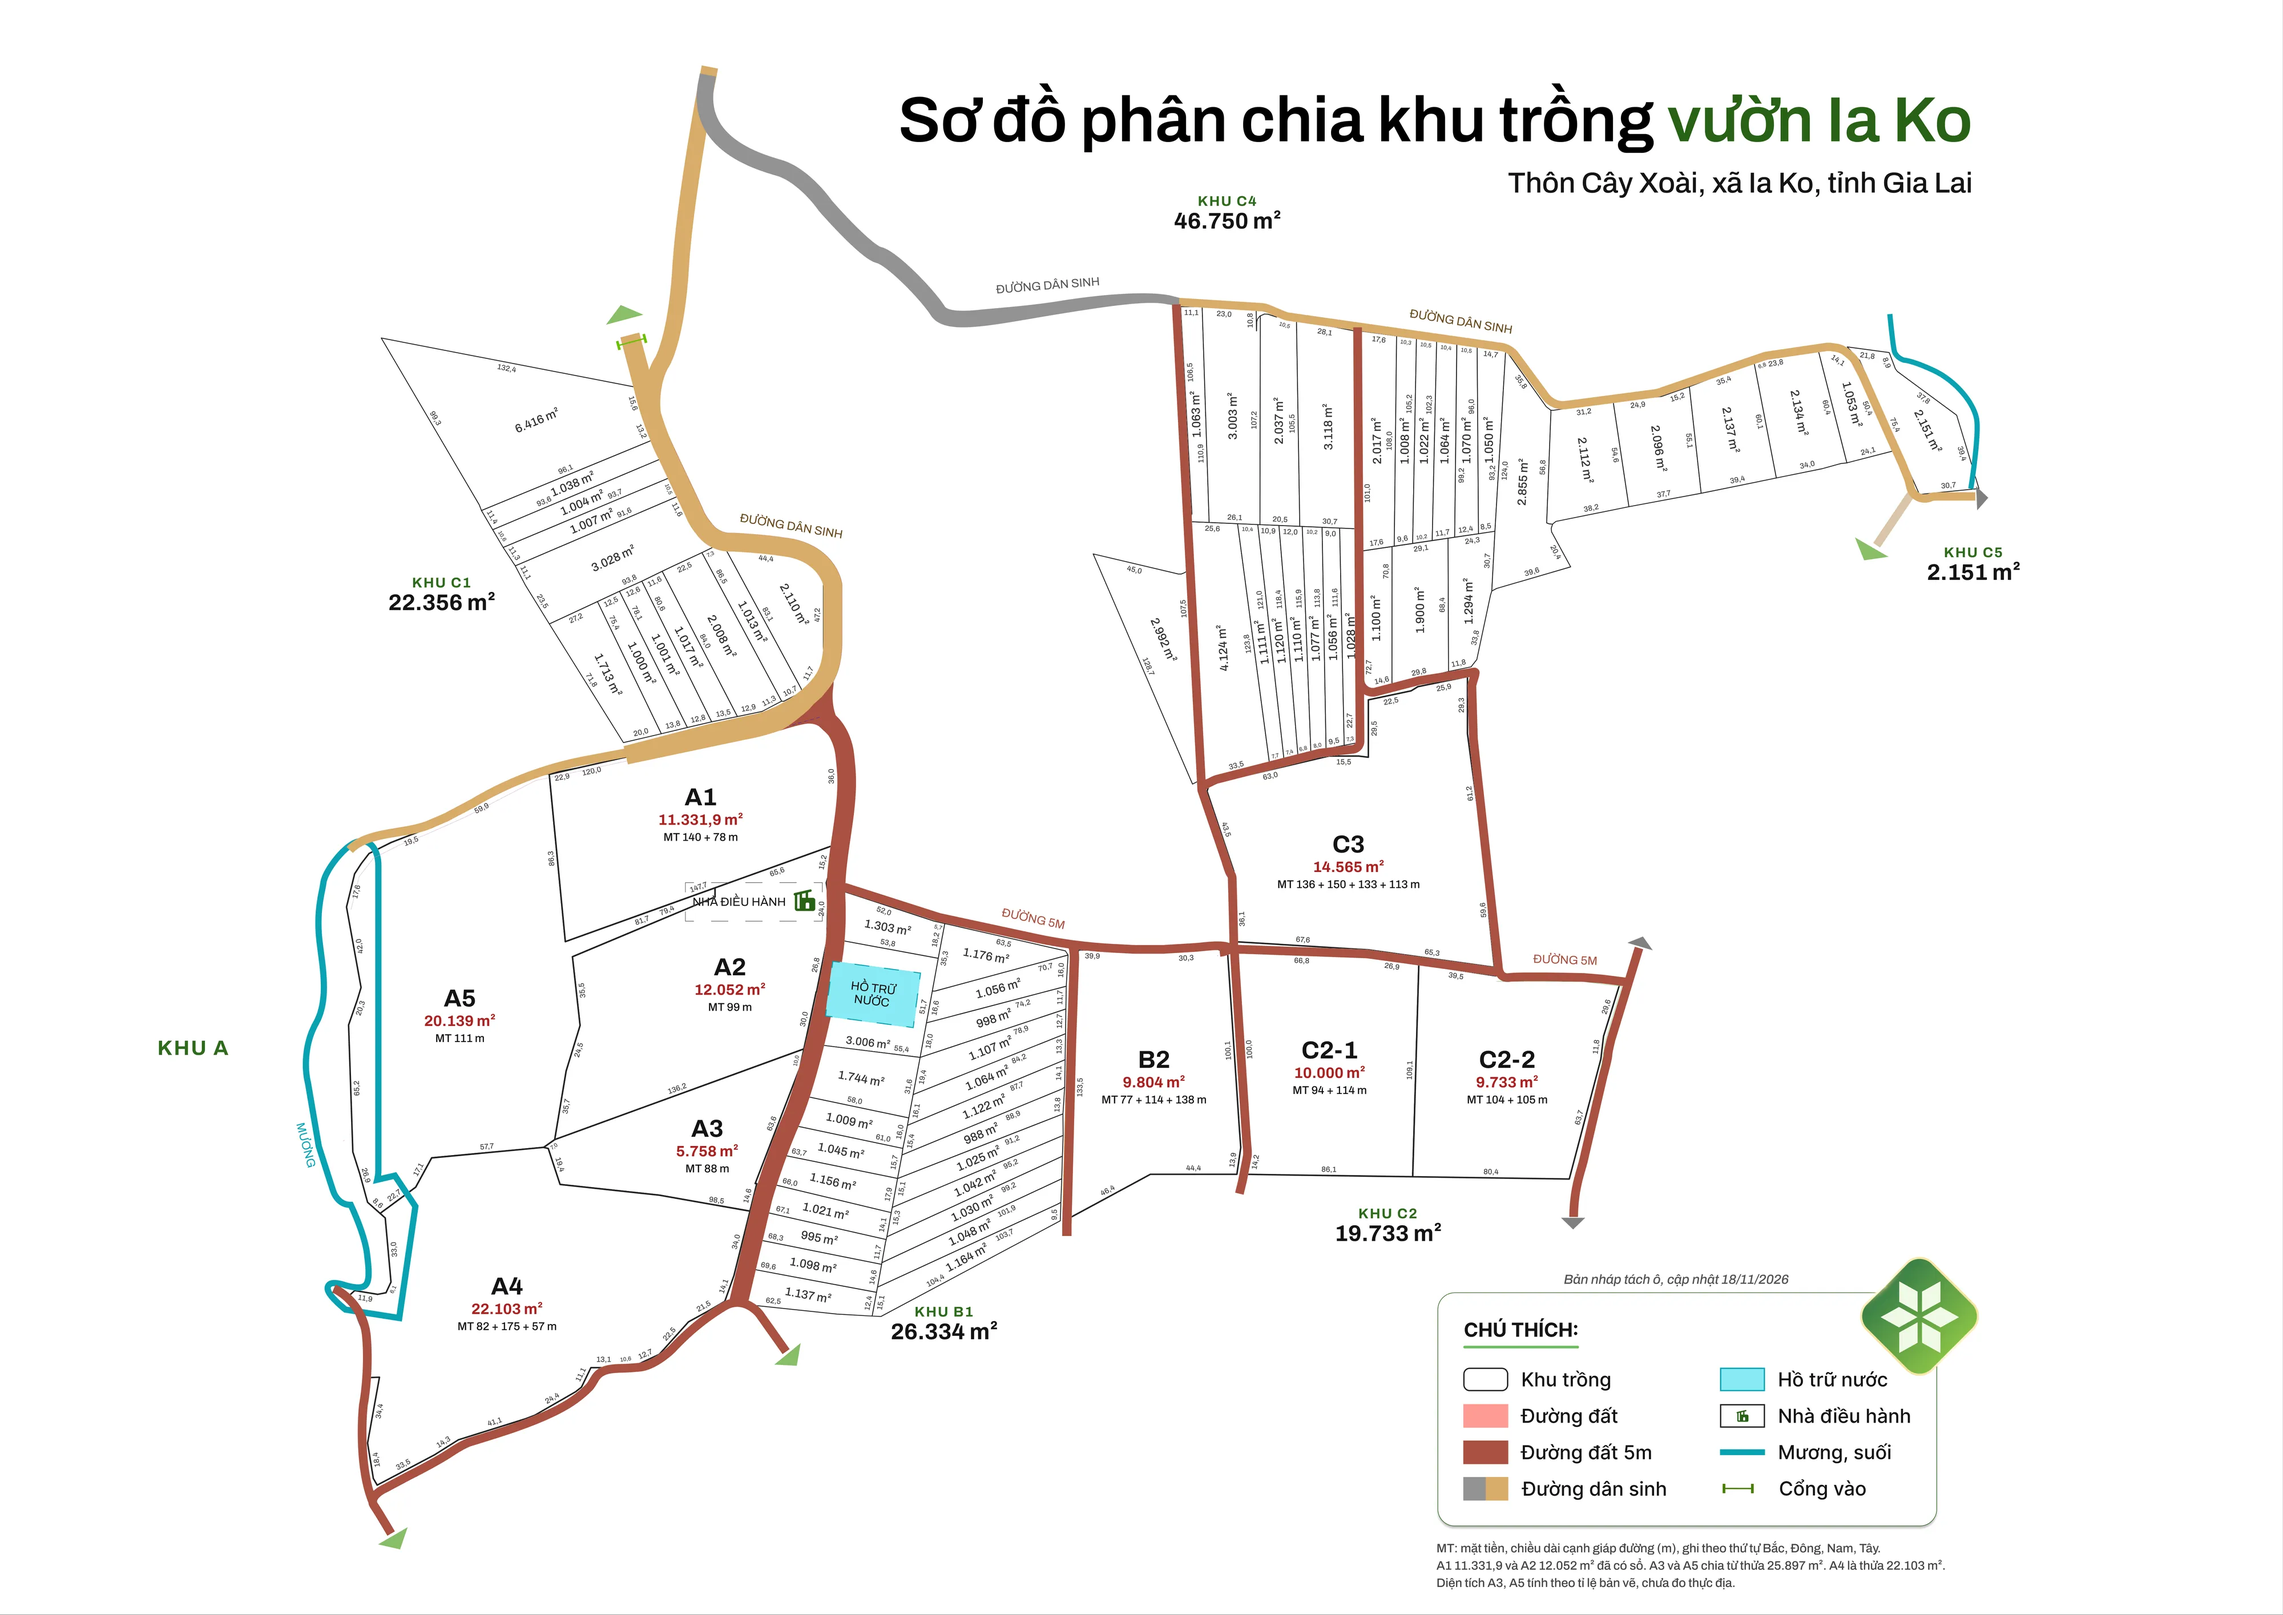
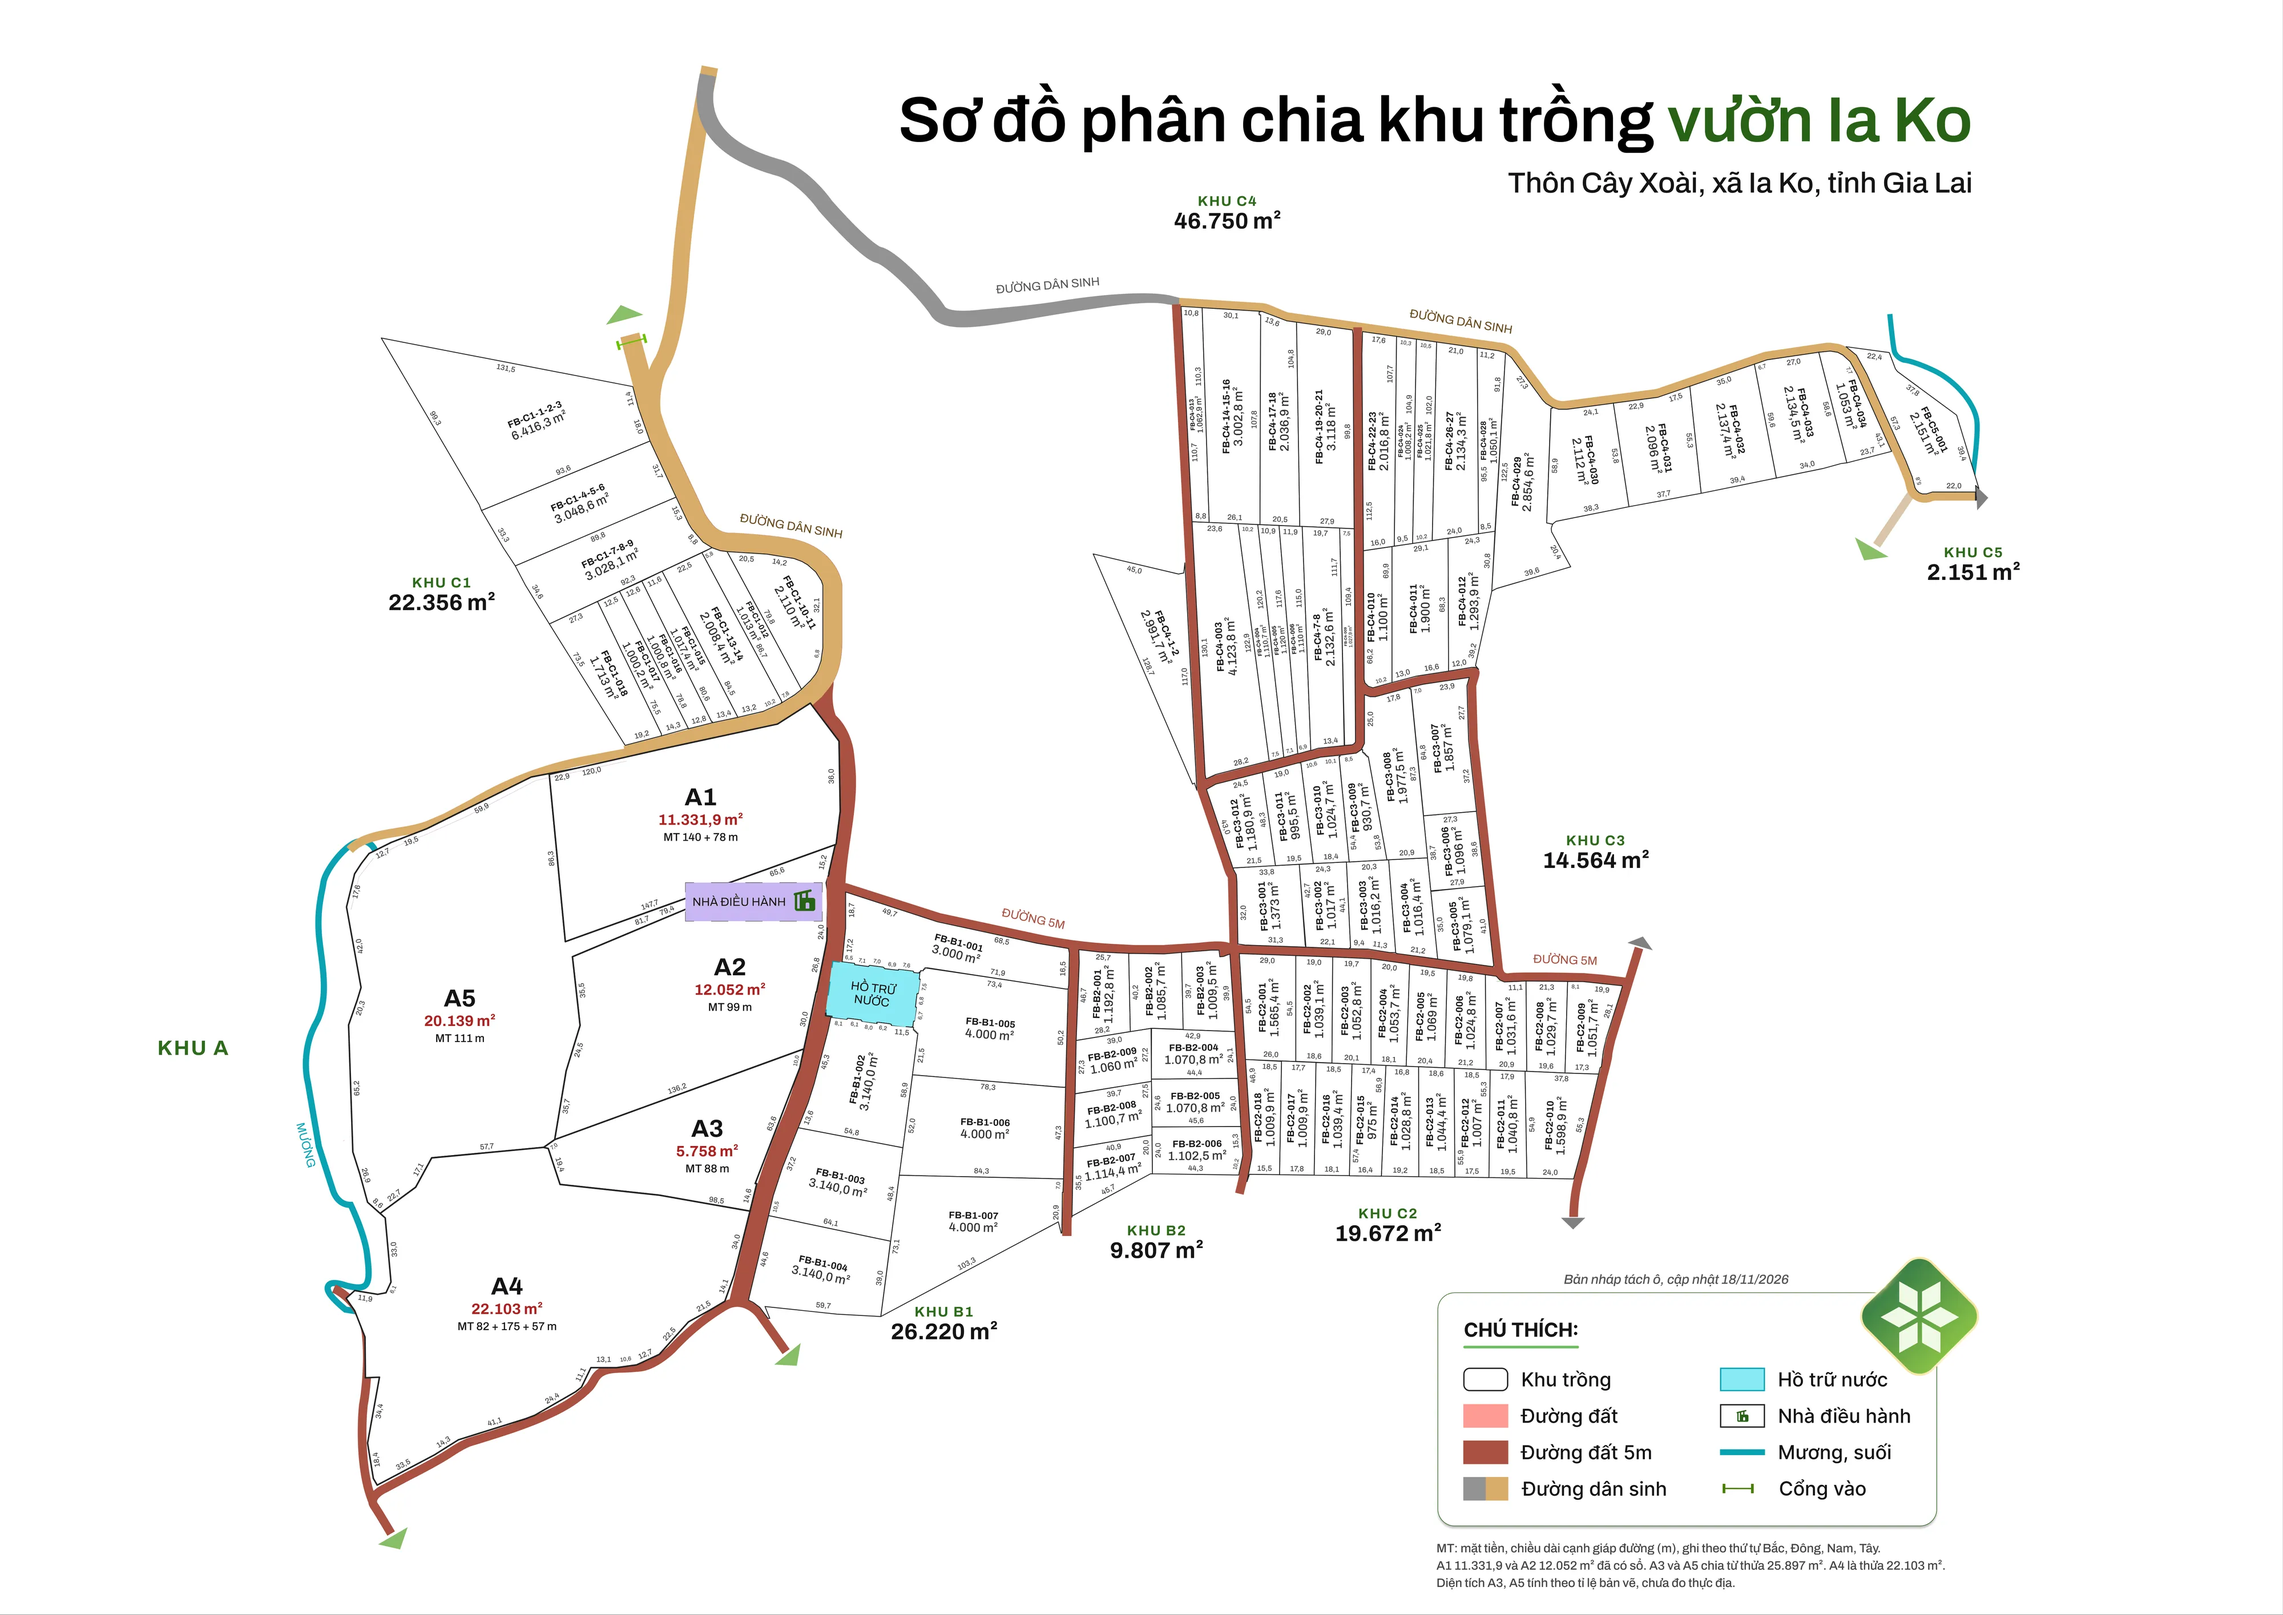
Bản đồ vườn: chia ô theo bảng phân lô, ghi tên và diện tích từng ô

diff --git a/ban-do-vuon/index.html b/ban-do-vuon/index.html
@@ -12,13 +12,13 @@
 <meta property="og:url" content="https://farmblock.vn/ban-do-vuon/">
 <meta property="og:title" content="Bản đồ vườn Ia Ko · FarmBlock">
 <meta property="og:description" content="Bản vẽ kỹ thuật, nhà điều hành và các bản sơ đồ tách ô vườn cà phê Ia Ko, Gia Lai (22 ha). Tài liệu nội bộ.">
-<meta property="og:image" content="https://farmblock.vn/ban-do-vuon/og.jpg?v=20261118c">
+<meta property="og:image" content="https://farmblock.vn/ban-do-vuon/og.jpg?v=20261118d">
 <meta property="og:image:width" content="1200">
 <meta property="og:image:height" content="630">
 <meta property="og:image:alt" content="Bản vẽ kỹ thuật vườn Ia Ko với 8 khu trồng">
 <meta name="twitter:card" content="summary_large_image">
 <meta name="twitter:title" content="Bản đồ vườn Ia Ko · FarmBlock">
-<meta name="twitter:image" content="https://farmblock.vn/ban-do-vuon/og.jpg?v=20261118c">
+<meta name="twitter:image" content="https://farmblock.vn/ban-do-vuon/og.jpg?v=20261118d">
 <link rel="icon" href="/img/favicon.svg" type="image/svg+xml">
 <link rel="icon" href="/img/favicon-48.png" type="image/png" sizes="48x48">
 <link rel="apple-touch-icon" href="/img/apple-touch-icon.png">
@@ -1076,9 +1076,9 @@ rrows.forEach((tr,i)=>{['pointerenter','focus'].forEach(ev=>tr.addEventListener(
 const STD='B2 9.804 m² (sổ), C2-1 10.000, C2-2 9.733, C3 14.565 m² (sổ).';
 const VERSIONS=[
  {id:'to-mau-block',t:'Tô màu theo block',d:'18/11/2026',tags:['Mới nhất'],
-  p:'Tô màu từng ô theo sơ đồ vùng canh tác block, khu A màu xanh lá. Có tên từng khu. Đường 5 m giữa khu C4 đã vẽ lại, khe trống đầu C4 nhập vào các ô bên cạnh. Diện tích ô B1, C1, C4, C5 theo số liệu 18/11.',rows:null},
+  p:'Chia ô theo bảng phân lô vùng canh tác block, trừ khu A giữ 5 ô theo sổ. Mỗi ô ghi tên và diện tích, ô vẽ khít sát đường, đường và mương nằm dưới các ô. Nhà điều hành màu tím. Khu A màu xanh lá, có tên và tổng diện tích từng khu.',rows:null},
  {id:'khu-a-giu-a3',t:'Khu A 5 ô, giữ ô A3 nhỏ',d:'13/11/2026 · cập nhật 18/11',tags:[],
-  p:'Bản phân ô dùng cho bản đồ tương tác. Khu A còn 5 ô: A1 theo sổ thửa 86, A2 theo sổ, A3 nhỏ cắt từ A2 cũ, A4 và A5 ước. Nét đen, số đỏ.',
+  p:'Bản nền trắng, cùng cách chia như bản tô màu: các khu ngoài khu A theo bảng phân lô, có tên ô, diện tích và số đo cạnh. Khu A còn 5 ô: A1 theo sổ thửa 86, A2 theo sổ, A3 nhỏ cắt từ A2 cũ, A4 và A5 ước.',
   rows:[['A1','11.331,9','140 + 78','Sổ, thửa 86'],['A2','12.052','99','Sổ'],['A3','5.758','88','Ước'],['A4','22.103','82 + 175 + 57','Sổ'],['A5','20.139','111','Ước']]},
  {id:'a1-theo-so',t:'Ô A1 theo sổ thửa 86',d:'17/11/2026',tags:['Theo sổ'],
   p:'Hình ô A1 dựng từ 9 cạnh trong sổ, khép kín đúng 11.331,9 m². Hướng cạnh lấy theo ảnh sổ, chỉnh tối đa 2°. Tổng góc trong 1.260°.',
